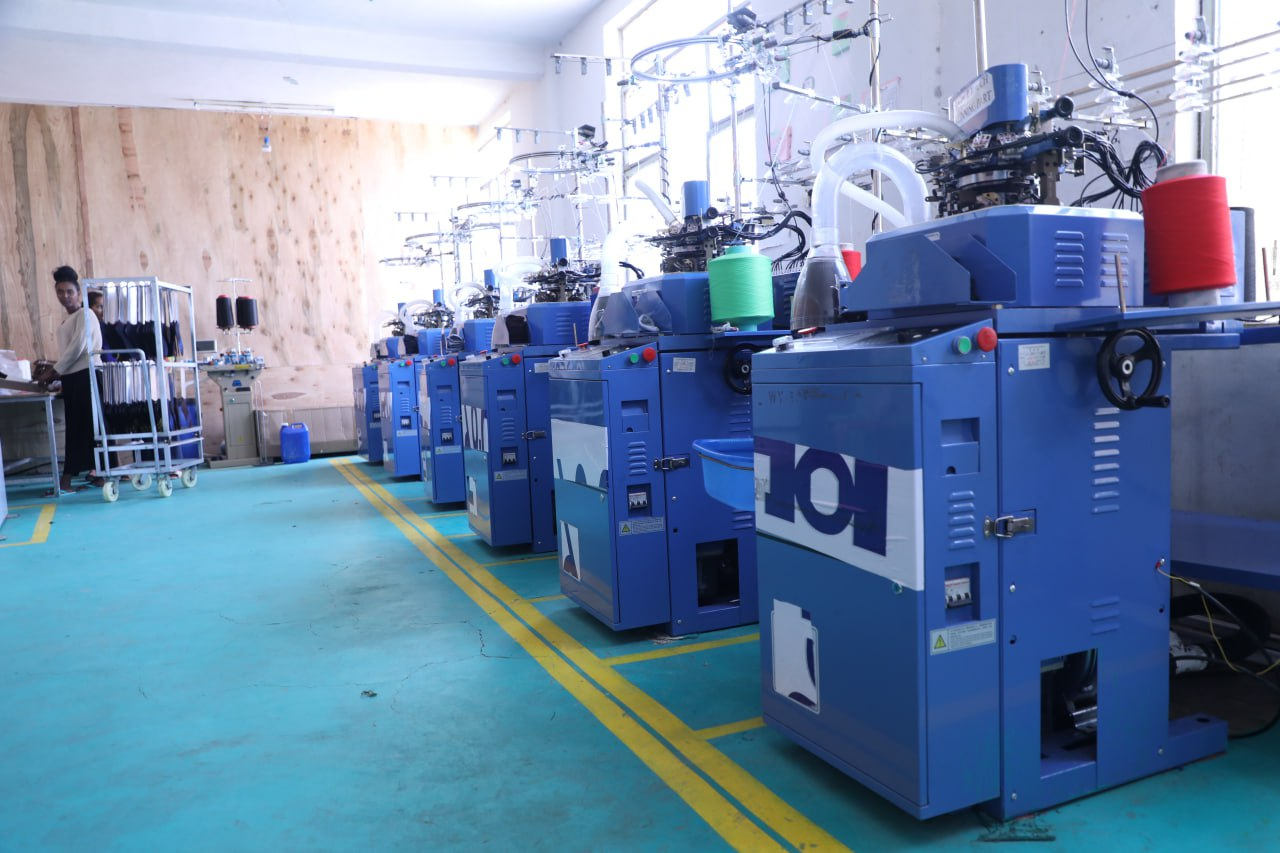
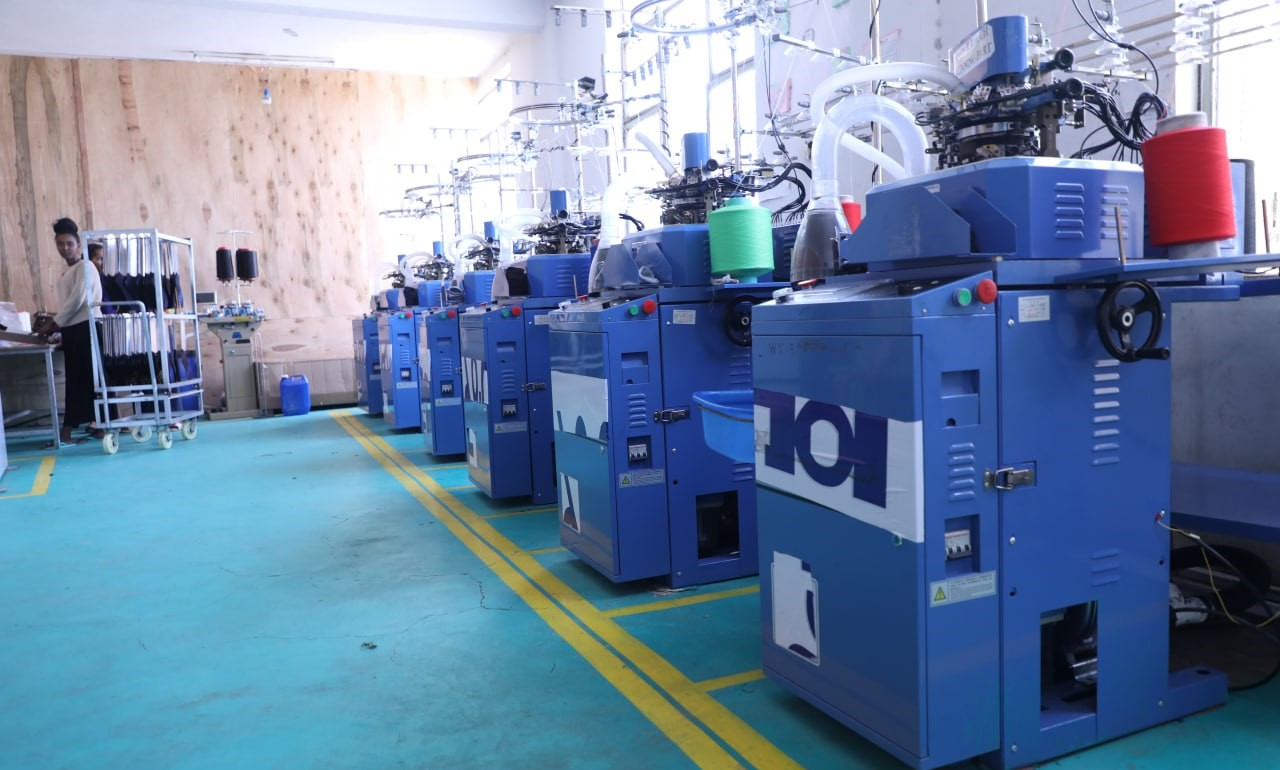
slide photo with caption updated

diff --git a/index.html b/index.html
@@ -113,71 +113,35 @@
         </header>
         <section class="panel">
               <div class="middlepanel">
-                <div class="sectionphoto" id="sectionphoto">
-                  <div class="slider">
-                        <ul>
-                          <li>
-                            <img src="image/garementphoto.jpg"
-      
-                                alt="Garement Image">
-                            <div class="caption">
-                                Varity Garement and Textile Machines
-                            </div>
-                        </li>
-                        <li>
-                          <img src="image/bread2.jpg"
-      
-                              alt="Bread making machine">
-                          <div class="caption">
-                            Bread Making Machine
+                      <div class="photocontent" id="sectionphoto"> 
+                        <div class="slider">
+                          <div class="slide-track">
+                            <div class="slide" style="background-image: url('./image/garementphoto.jpg');" data-caption=" Varity Garement and Textile Machines"></div>
+                           
+                            <div class="slide" style="background-image: url('./image/kalsephoto.jpg');" data-caption=" Line sock making machine"></div>
+                            
+                            <div class="slide" style="background-image: url('./image/plasticcrusher.jpg');" data-caption=" Line Plastic Crusher Machine"></div>
+                            <div class="slide" style="background-image: url('./image/metalbending.jpg');" data-caption=" Hydrolic sheet metal Bending Machine"> </div>
+                            <div class="slide" style="background-image: url('./image/stonecrusher.jpg');" data-caption=" heavy duty stone crushing Plant"></div>
+                            <div class="slide" style="background-image: url('./image/oxygen.jpg');" data-caption=" Oxygen prodaction plant"></div>
+                            <!-- Duplicate slides for seamless looping -->
+                            <div class="slide" style="background-image: url('./image/garementphoto.jpg');" data-caption=" Varity Garement and Textile Machines"></div>
+                           
+                            <div class="slide" style="background-image: url('./image/kalsephoto.jpg');" data-caption=" Line sock making machine"></div>
+                            
+                            <div class="slide" style="background-image: url('plasticcrusher.jpg');" data-caption=" Line Plastic Crusher Machine"></div>
+                            <div class="slide" style="background-image: url('./image/metalbending.jpg');" data-caption=" Hydrolic sheet metal Bending Machine"> </div>
+                            <div class="slide" style="background-image: url('./image/stonecrusher.jpg');" data-caption=" heavy duty stone crushing Plant"></div>
+                            <div class="slide" style="background-image: url('./image/oxygen.jpg');" data-caption=" Oxygen prodaction plant"></div>
                           </div>
-                      </li>
-                      <li>
-                        <img src="image/kalsephoto.jpg"
-
-                            alt=" sock making machine">
-                        <div class="caption">
-                            Line sock making machine
+                          <div class="arrow left" onclick="prevSlide()"><i class="fa-solid fa-angle-left"></i></div>
+                          <div class="arrow right" onclick="nextSlide()"><i class="fa-solid fa-angle-right"></i></div>
+                          <div class="caption" id="caption"></div>
                         </div>
-                    </li>
-                    <li>
-                      <img src="image/stonecrusher.jpg"
-
-                          alt="stone crusher machine">
-                      <div class="caption">
-                          heavy duty stone crushing Plant
                       </div>
-                  </li>
-                            <li>
-                                <img src="image/plasticcrusher.jpg"
-            
-                                    alt="Plastic Crusher Machine">
-                                <div class="caption">
-                                  Line Plastic Crusher Machine
-                                </div>
-                            </li>
-                          
-                            <li>
-                                <img src="image/metalbending.jpg"
-            
-                                    alt="Bending Machine">
-                                <div class="caption">
-                                    Hydrolic sheet metal Bending Machine
-                                </div>
-                            </li>
-                          
-                            <li>
-                              <img src="image/oxygen.jpg"
-          
-                                  alt="Oxygen prodaction plant">
-                              <div class="caption">
-                                Oxygen prodaction plant
-                              </div>
-                          </li>
-                        
-                        </ul>
-                  </div>
-                  </div>
+                     
+
+                      
                       <div class="missiontext" id="missiontext">
                             <p>Our mission is to provide modern inclusive & efficient leasing service to Micro, Small & medium enterprises which contributes to the socio-economic transformation of the nation.</p>
                       </div>  

diff --git a/CSS/styles.css b/CSS/styles.css
@@ -160,6 +160,8 @@
 /* menu end */
 /*... panel start.... */
 
+
+
  .panel {
    margin-top: -31px;
    margin-bottom: 0px;
@@ -173,90 +175,71 @@
     font-size: 16px;
 }
 /* photo section -container */ 
+.photocontent {
+  display: flex;
+  justify-content: center;
+  align-items: center;
+ 
+  margin: 0;
+  background-color: #f0f0f0;
+
+
+}
 
 .slider {
-  width: 96%;
-  position: relative;
-  height: 550px;
+  width: 1280px;
+  height: 550px; /* Keep the height to 550px as desired */
   margin: 0 auto;
-  /* border: 4px solid green; */
- 
+  overflow: hidden;
+  position: relative;
+  border-radius: 10px;
+  box-shadow: 0 4px 8px rgba(0, 0, 0, 0.2);
 }
 
-.slider ul {
-  list-style: none;
-  margin: 0;
-  padding: 0;
+.slide-track {
+  display: flex;
+  transition: transform 0.5s ease;
+  width: calc(1280px * 12); /* 6 originals + 6 duplicates */
 }
 
-.slider li {
-  position: absolute;
-  top: 0;
-  left: 0;
-  opacity: 0;
-  transition: opacity 1s ease-in-out;
-}
-
-.slider img {
+.slide {
+  width: 1280px;
   height: 550px;
-  width: 1350px;
-  /* width: 100%; */
-  /* width: 98%; */
-
-  /* border-radius: 15px; */
-   /* border: 3px solid  red; */
-
+  object-fit: cover; /* Ensures the image fills the container */
+  background-color: #f0f0f0; /* Optional: background color for visual consistency */
 }
-
-
-.slider li.active {
-   opacity: 1;
-}
-
-.slider .caption {
-   position: absolute;
-   bottom: 0;
-   left: 0;
-   width: 100%;
-   background-color: rgba(0, 0, 0, 0.5);
-   color: #fff;
-   font-size: 18px;
-   padding: 10px;
-   text-align: center;
-}
-
-.btn {
-   background-color: rgb(59, 59, 170);
-   color: white;
-   padding: 5px 40px;
-}
-/* footer */
-/* .address {
-   display: flex;
-   justify-content: space-around;
-   padding-top: 10px;
-   color: blue;
-}
-.copyright {
-   text-align: center;
-  margin-bottom: 0px;
+.caption {
+  position: absolute;
+  bottom: 0;
+  width: 100%;
   padding: 10px;
- 
+  color: #fff;
+  background: rgba(0, 0, 0, 0.6);
+  font-size: 24px;
+  text-align: center;
 }
-.footer {
-  
-   display: flex;
- 
+.arrow {
+  position: absolute;
+  top: 50%;
+  transform: translateY(-50%);
+color: white;
+  cursor: pointer;
+  font-size: 50px;
+  z-index: 2;
 }
-.copyright {
-   width: 85%;
-   margin: 0 auto;
-   border: 20x solid sienna;
-}  */
 
-/* .fa-2x {
-   cursor: pointer;
-} */
+.arrow.left {
+  left: 1px;
+
+
+}
+
+.arrow.right {
+  right: 1px;
+}
+
+/* photo end */
+
 /* middle panel general style  */
   .missiontext,
   .contactusconetent,

diff --git a/JS/script.js b/JS/script.js
@@ -1,33 +1,56 @@
 
 //Home page image changer
-const slider = document.querySelector('.slider');
-const slides = slider.querySelectorAll('li');
-const data ={
-  content:"<b>Waliya Capital Goods Finance Business S.C</b> "
+const slideTrack = document.querySelector(".slide-track");
+const slides = document.querySelectorAll(".slide");
+const captionElement = document.getElementById("caption");
+const slideWidth = 1280; // updated width of each slide
+let index = 0;
+
+captionElement.textContent = slides[index].getAttribute("data-caption");
+function updateSlidePosition() {
+  slideTrack.style.transition = "transform 0.5s ease";
+  slideTrack.style.transform = `translateX(-${index * slideWidth}px)`;
+  
+  captionElement.textContent = slides[index].getAttribute("data-caption"); // Update caption
+
 }
-// Store the total number of images
-const slideCount = slides.length;
-let activeSlide = 0;
-// console.log(slideCount);
-// To change the images dynamically every 
-// 5 Secs, use SetInterval() method
-function photoload (){
-    slides[activeSlide].classList.remove('active');
-  activeSlide++;
-  if (activeSlide === slideCount) {
-    activeSlide = 0;
+
+function nextSlide() {
+  if (index >= slides.length / 2 - 1) {
+    index++;
+    updateSlidePosition();
+    setTimeout(() => {
+      slideTrack.style.transition = "none";
+      index = 0;
+      slideTrack.style.transform = `translateX(0px)`;
+    }, 500);
+  } else {
+    index++;
+    updateSlidePosition();
   }
-  slides[activeSlide].classList.add('active');
 }
-photoload();
-setInterval(() => {
-  slides[activeSlide].classList.remove('active');
-  activeSlide++;
-  if (activeSlide === slideCount) {
-    activeSlide = 0;
+
+function prevSlide() {
+  if (index <= 0) {
+    index--;
+    updateSlidePosition();
+    setTimeout(() => {
+      slideTrack.style.transition = "none";
+      index = slides.length / 2 - 1;
+      slideTrack.style.transform = `translateX(-${index * slideWidth}px)`;
+    }, 500);
+  } else {
+    index--;
+    updateSlidePosition();
   }
-  slides[activeSlide].classList.add('active');
-}, 5000);
+}
+
+// Automatically move to the next slide every 3 seconds
+setInterval(nextSlide, 3000);
+
+
+
+//end of homepage image xhanger
 
 // about us menu mouseover and mouseout handler// 
 let dropdownaboutus=document.querySelectorAll(".dropdownaboutus")
